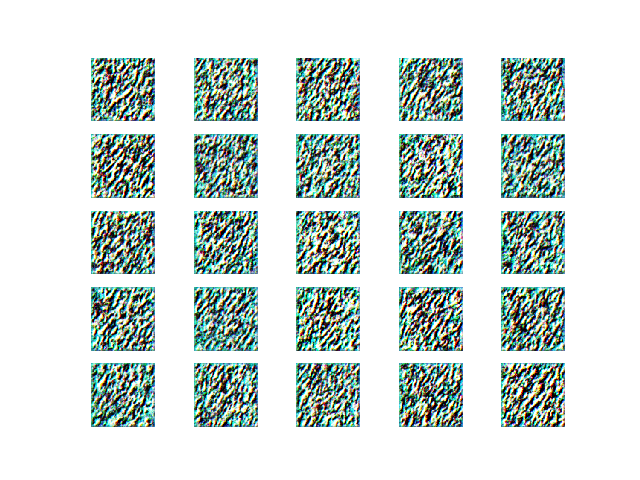
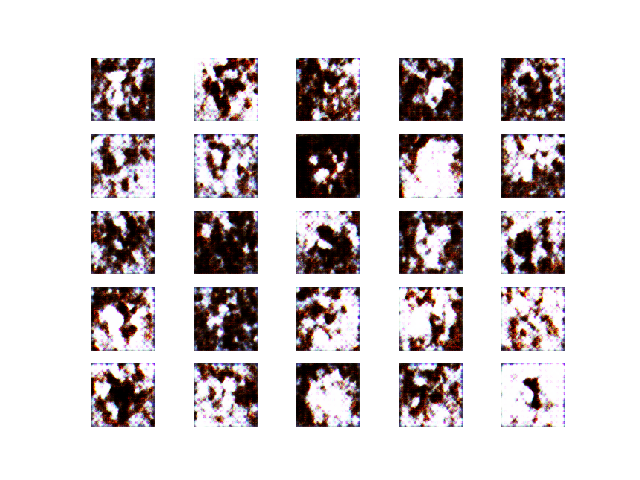
Changed code to allow D to train for k iterations before G is trained. Nan loss on the last (leftover) batch was problematic, so removed the code to train on the last batch

diff --git a/dog_cat_gan.py b/dog_cat_gan.py
@@ -24,7 +24,7 @@ class DCGAN():
         self.input_shape = (self.img_width, self.img_height, 3) #3 channels for color
 
         optimizer_g = Adam(0.0002)
-        optimizer_d = Adam(0.0005)
+        optimizer_d = SGD(0.0005)
 
         #SGD with 0.0002 is super checkerboarded, no smooth lines at all (Epoch 0 and 5)
         #Adam with 0.0002 is a little checkerboarded it still makes smooth shapes (Epoch 0 and 5)
@@ -140,17 +140,21 @@ class DCGAN():
         #y_train shape (1000, )            (num_training_data, )
         x_test, _ = self.preprocess(test, TEST_DIREC+"/")
         y_test = []
-        d_loss, d_acc, g_loss, g_acc = (0., 0., 0., 0.)
+        d_loss = 0.
+        d_acc = 0.
+        g_loss = 0.
+        g_acc = 0.
 
         epochs = 1000
         batch_size = 128
         num_batches = len(x_train)//batch_size + 1
-        k = 3 #number of times to train discriminator for every training of generator
+        k = 2 #number of times to train discriminator for every training of generator
         iterations = num_batches // k + 1
-        batch_index = 0
+
 
         for epoch in range(epochs):
             print("Epoch " + str(epoch))
+            batch_index = 0
 
             for iteration in range(iterations - 1):
                 for batch in range(k):
@@ -175,19 +179,21 @@ class DCGAN():
                 d_acc += d_acc_batch
                 batch_index += 1
 
-            start = batch_size*num_batches
-            end = len(x_train)
-            batches = self.get_batches(start, end, x_train)
-            (d_loss_batch, d_acc_batch) = self.train_D_on_batch(batches)
-            d_loss += d_loss_batch
-            d_acc += d_acc_batch
+            # start = batch_size*batch_index
+            # end = len(x_train)
+            # batches = self.get_batches(start, end, x_train)
+            # (d_loss_batch, d_acc_batch) = self.train_D_on_batch(batches)
+            # print(d_loss_batch)
+            # d_loss += d_loss_batch
+            # d_acc += d_acc_batch
 
             (g_loss_batch, g_acc_batch) = self.train_G_on_batch(batch_size)
             g_loss += g_loss_batch
             g_acc += g_acc_batch
 
-            d_acc /= num_batches
-            g_acc /= num_batches
+            d_acc /= (num_batches - 1)
+            g_acc /= (num_batches - 1)
+
             print("Discriminator -- Loss:%f\tAccuracy%.2f%%\nGenerator -- Loss:%f\tAccuracy%.2f%%" %(d_loss, d_acc*100., g_loss, g_acc*100.))
 
             if epoch % 5 == 0:
